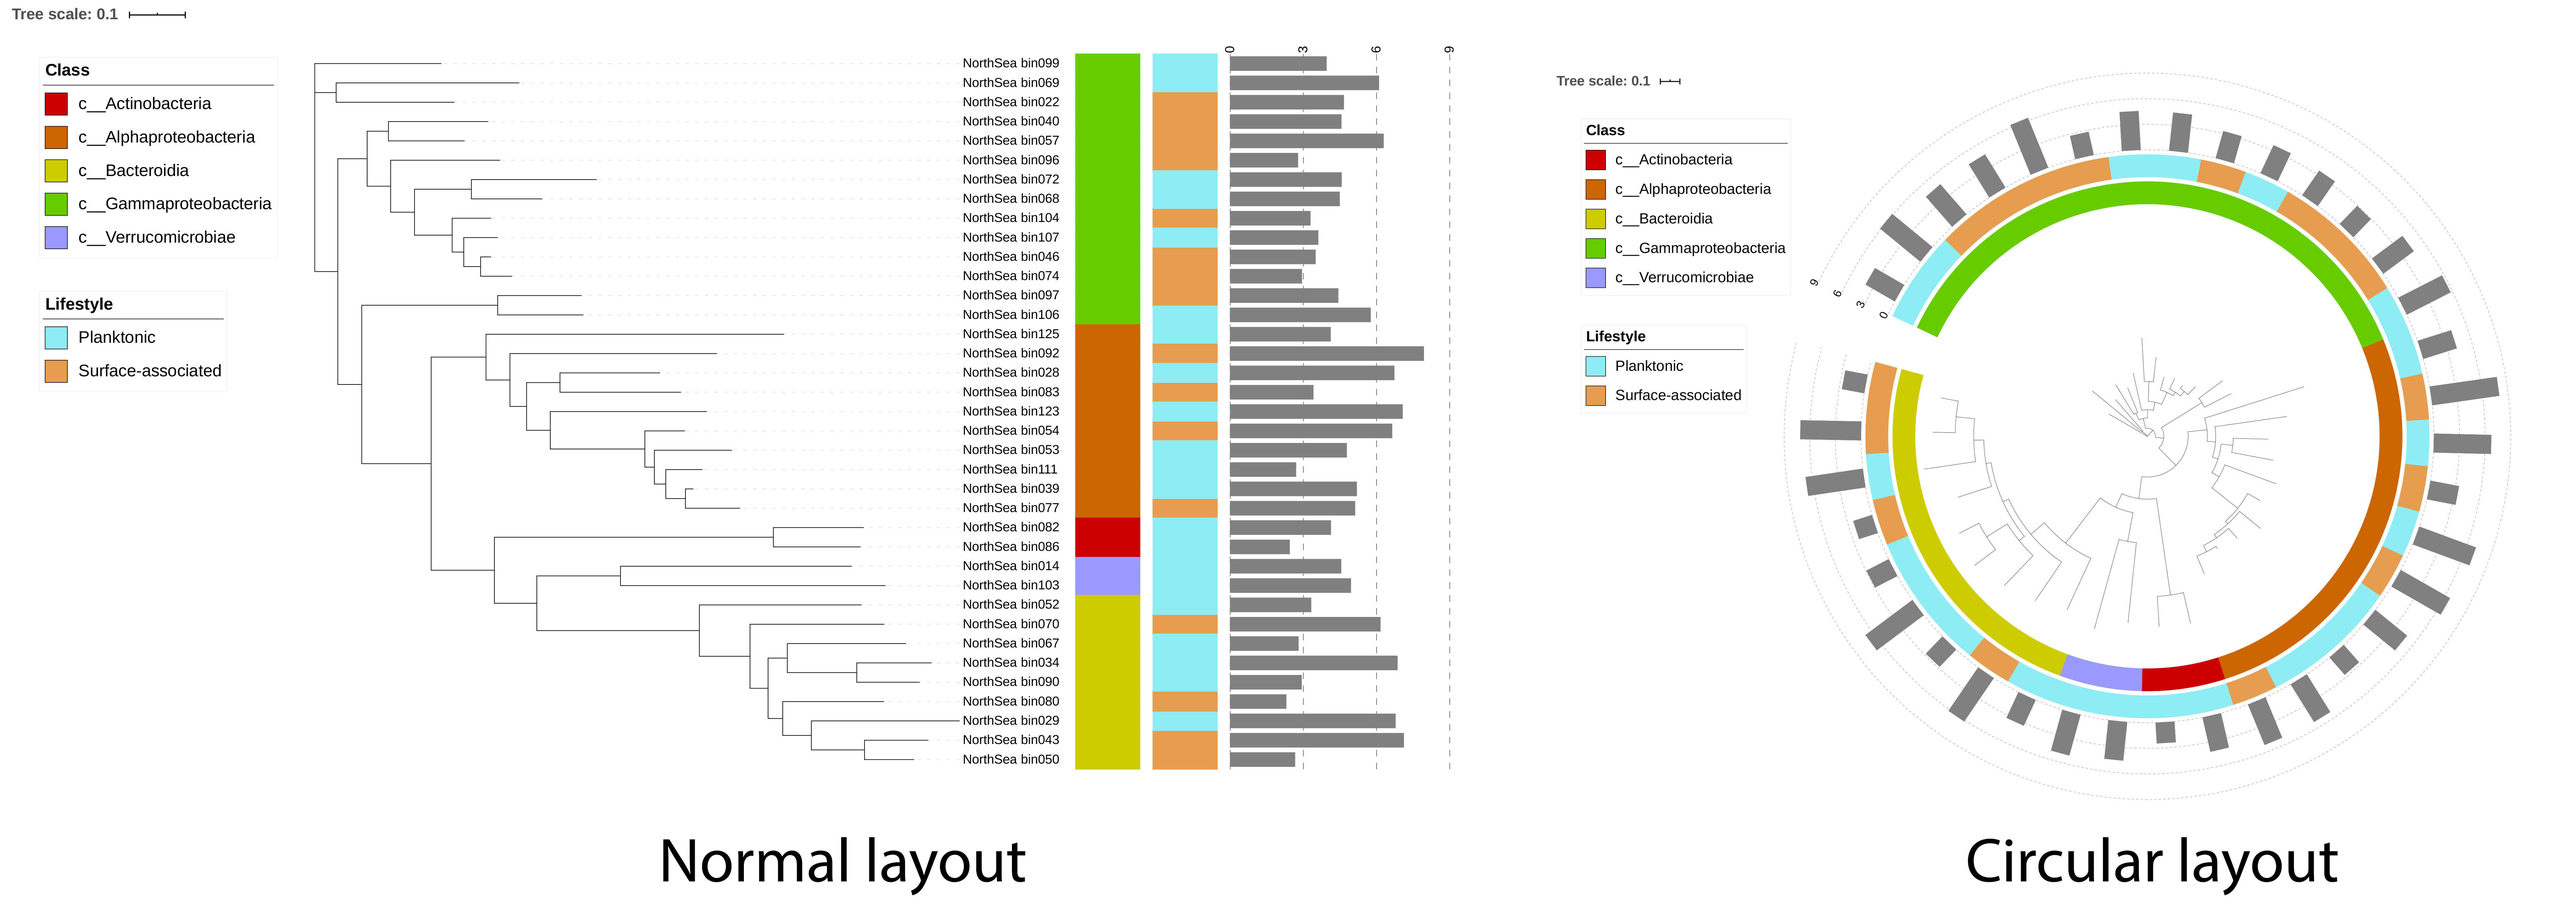
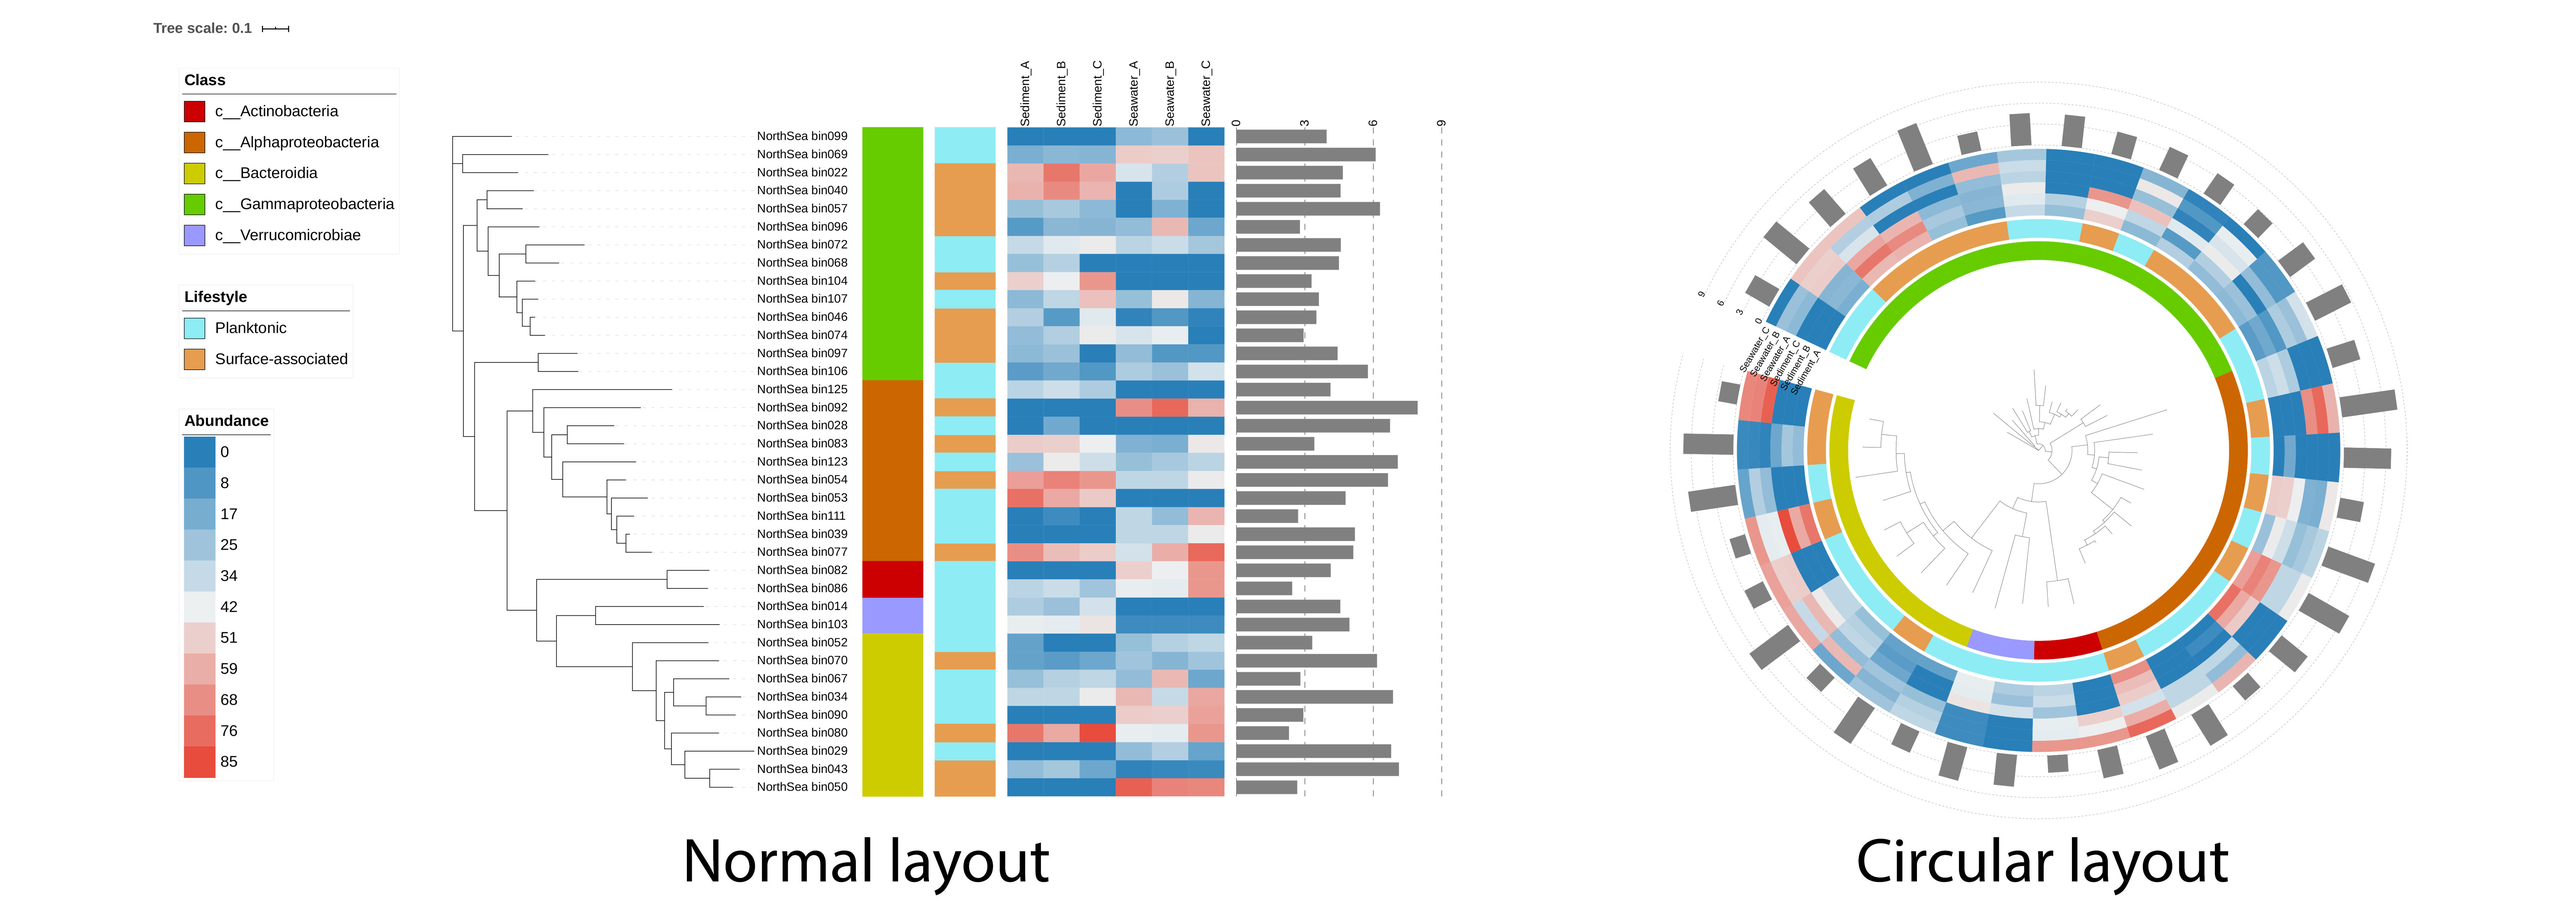
-1.21.3

diff --git a/BioSAK_tutorial/Demo_tree_visualization_with_iTol/README.md b/BioSAK_tutorial/Demo_tree_visualization_with_iTol/README.md
@@ -1,9 +1,9 @@
 
 ## Tree visualization with [iTOL](https://itol.embl.de)
 
-1. Here, I have a phylogenetic tree for 37 MAGs derived from microbial communities (either surface-associated or planktonic) sampled in the North Sea.
-I have the taxonomy info of these MAGs at class level and I also have their sizes.
-This short note shows how to visualize all these info in one figure.
+1. Here, I have a phylogenetic tree for 37 MAGs derived from six microbial communities (either surface-associated or planktonic) sampled in the North Sea.
+I have the taxonomy info of these MAGs at the class level, their sizes and their abundances across the six samples.
+This short note shows how to visualize all these info in one plot.
 
 1. Download needed files: [files_needed.zip](files_needed.zip)
 
@@ -12,7 +12,8 @@ This short note shows how to visualize all these info in one figure.
     + A phylogenetic tree in [Newick](http://evolution.genetics.washington.edu/phylip/newicktree.html) format: [NorthSea_0_Tree.newick](files_needed/NorthSea_0_Tree.newick)
     + Taxonomy info: [NorthSea_1_Taxon_ColorStrip.txt](files_needed/NorthSea_1_Taxon_ColorStrip.txt), [NorthSea_1_Taxon_Range.txt](files_needed/NorthSea_1_Taxon_Range.txt)
     + Life-style info: [NorthSea_2_LifeStyle.txt](files_needed/NorthSea_2_LifeStyle.txt)
-    + MAG size info: [NorthSea_3_MAG_Size.txt](files_needed/NorthSea_3_MAG_Size.txt)
+    + Abundance across samples: [NorthSea_3_Abundance.txt](files_needed/NorthSea_3_Abundance.txt)
+    + MAG size info: [NorthSea_4_MAG_Size.txt](files_needed/NorthSea_4_MAG_Size.txt)
     
     + You can use [BioSAK](https://github.com/songweizhi/BioSAK)'s iTOL module (> 1.22.0) to prepare these files. Please refers to BioSAK's [help page](https://github.com/songweizhi/BioSAK) for its installation.
     
@@ -25,8 +26,11 @@ This short note shows how to visualize all these info in one figure.
           # get NorthSea_2_LifeStyle.txt
           BioSAK iTOL -ColorStrip -LeafGroup raw_MAG_LifeStyle.txt -GroupColor raw_LifeStyle_color.txt -LegendTitle MAG_LifeStyle -out NorthSea_2_LifeStyle.txt
           
-          # get NorthSea_3_MAG_Size.txt
-          BioSAK iTOL -SimpleBar -LeafValue raw_MAG_size.txt -scale 0-3-6-9 -LegendTitle MAG_Size -out NorthSea_3_MAG_Size.txt
+          # get NorthSea_3_Abundance.txt
+          BioSAK iTOL -Heatmap -LeafMatrix raw_MAG_abundance.txt -LegendTitle Abundance -out NorthSea_3_Abundance.txt
+
+          # get NorthSea_4_MAG_Size.txt
+          BioSAK iTOL -SimpleBar -LeafValue raw_MAG_size.txt -scale 0-3-6-9 -LegendTitle MAG_Size -out NorthSea_4_MAG_Size.txt
 
           # Help info
           BioSAK iTOL -h
@@ -41,7 +45,7 @@ You can now play around with the control panel on the right side (e.g. change tr
 1. We are going to add the taxonomy info of our MAG to the tree now, which is really easy to do in iTOL. 
 You just need to drag and drop **NorthSea_1_Taxon_ColorStrip.txt**  to the **tree area**.
 
-1. Do the same thing to **NorthSea_2_LifeStyle.txt** and **NorthSea_3_MAG_Size.txt** to add life-style and size info, 
+1. Do the same thing to **NorthSea_2_LifeStyle.txt**, **NorthSea_3_Abundance.txt** and **NorthSea_4_MAG_Size.txt** to add life-style, abundance and size info, 
 you'll see trees like this:
 ![Tree_1](figures/Tree_1.jpg)
 
